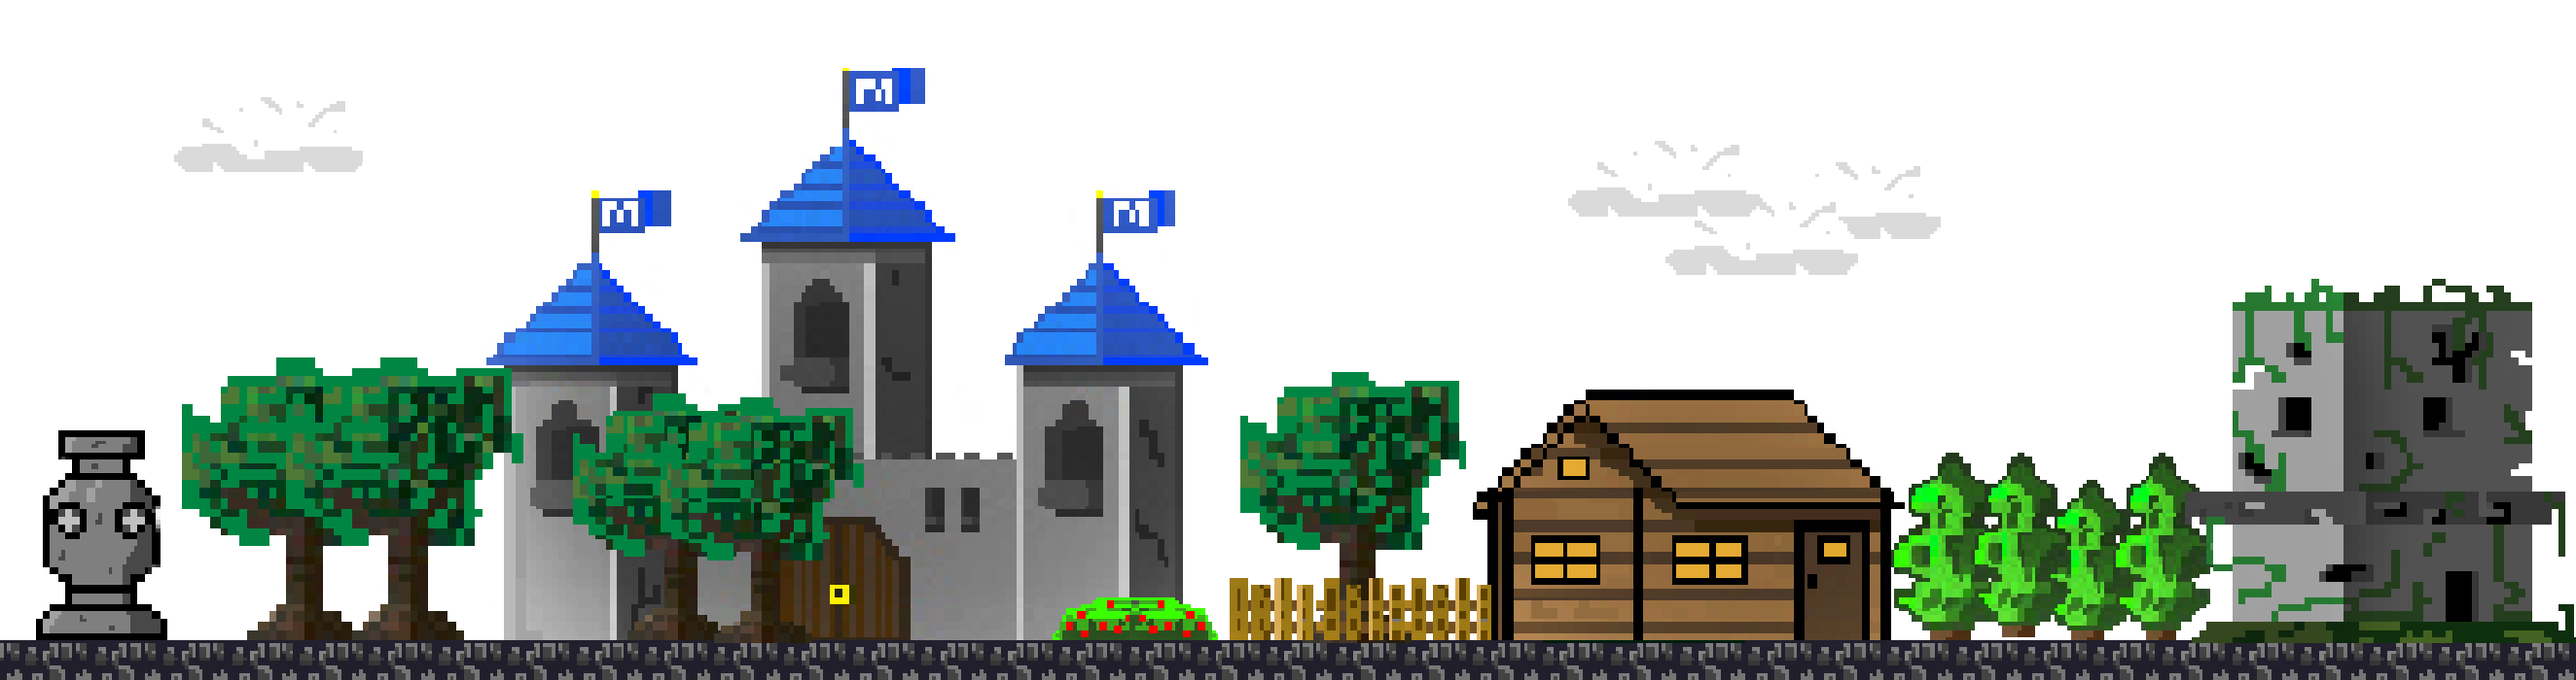
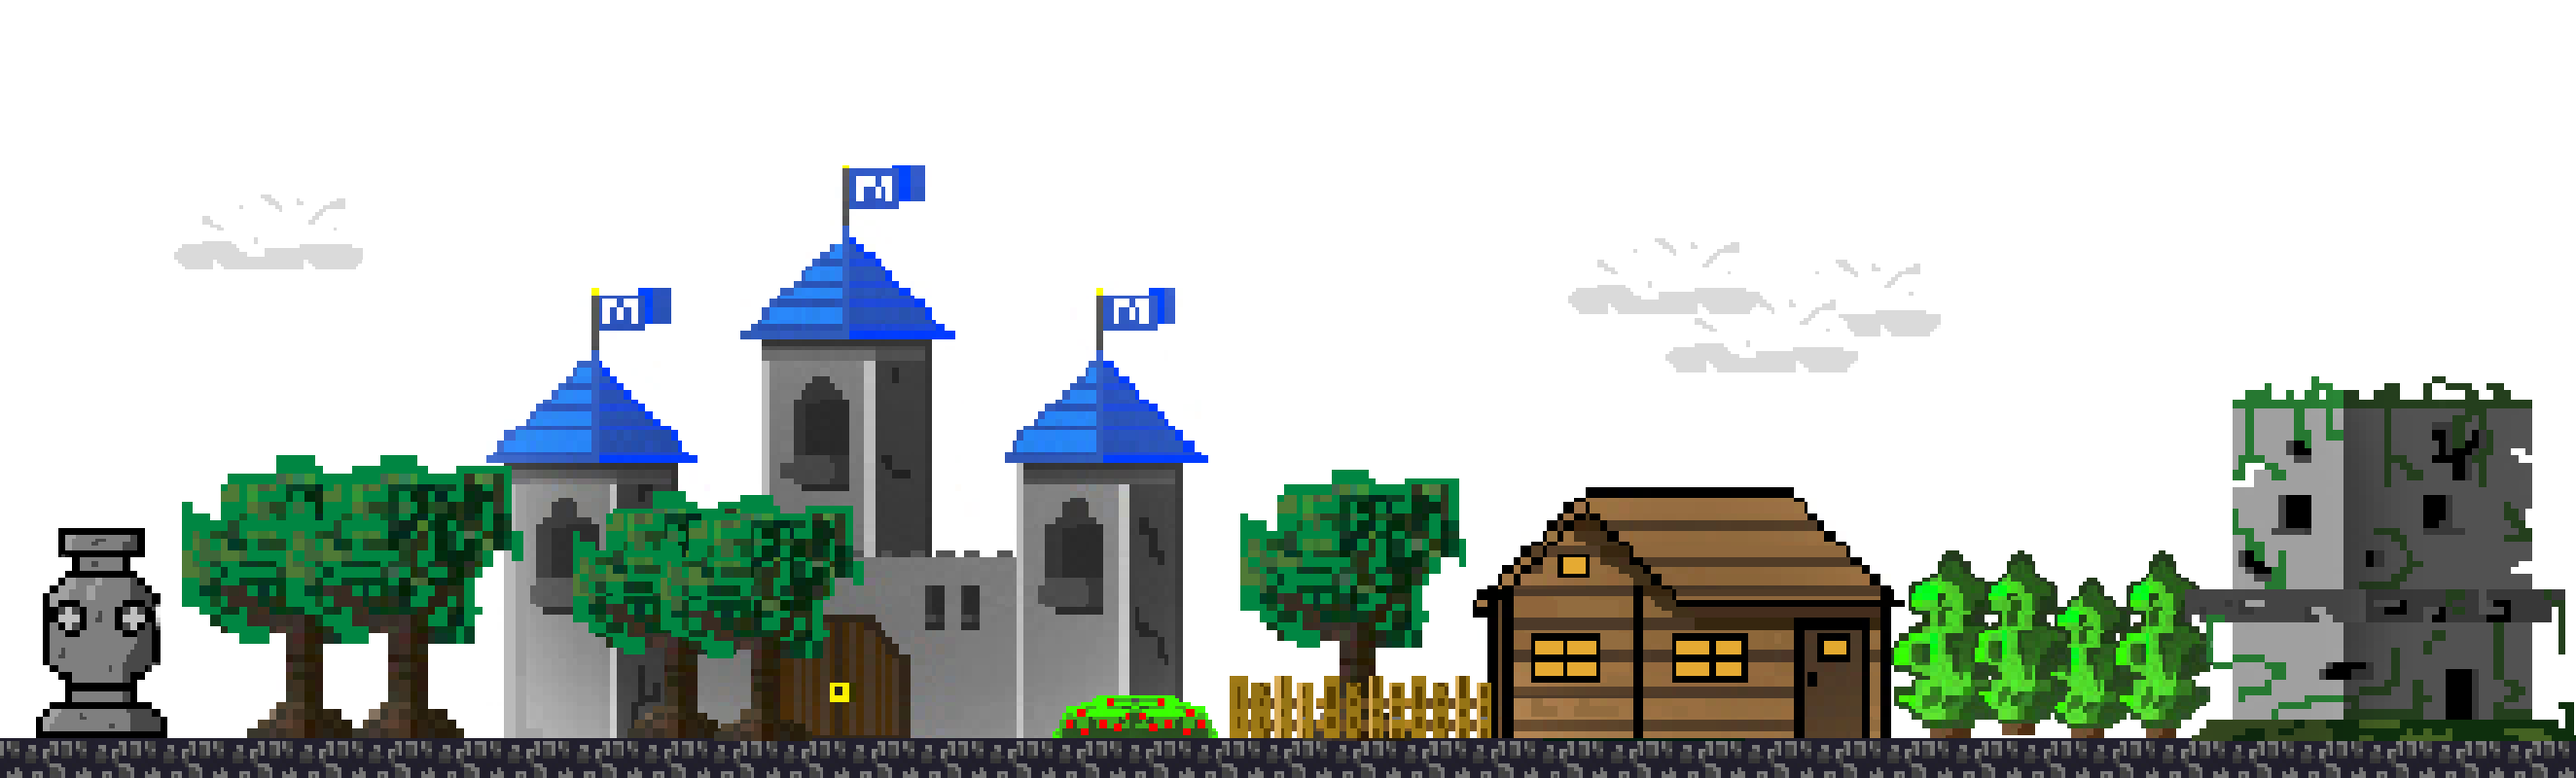
images changes

diff --git a/game.py b/game.py
@@ -5,7 +5,7 @@ pygame.init()
 
 # init variables
 
-win_width, win_height = 1300, 700  # important is only win_height
+win_width, win_height = 1300, 800  # important is only win_height
 win = pygame.display.set_mode((win_width, win_height))
 win_caption = pygame.display.set_caption("castle_run")
 
